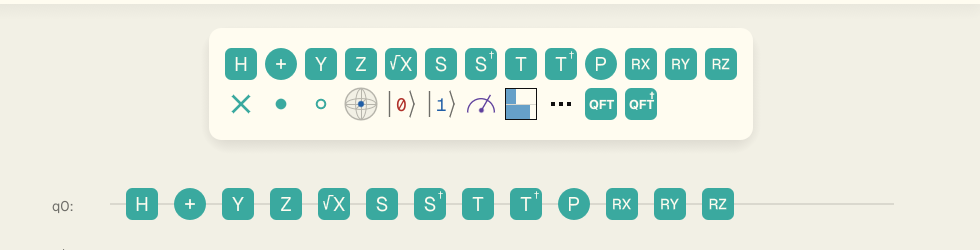
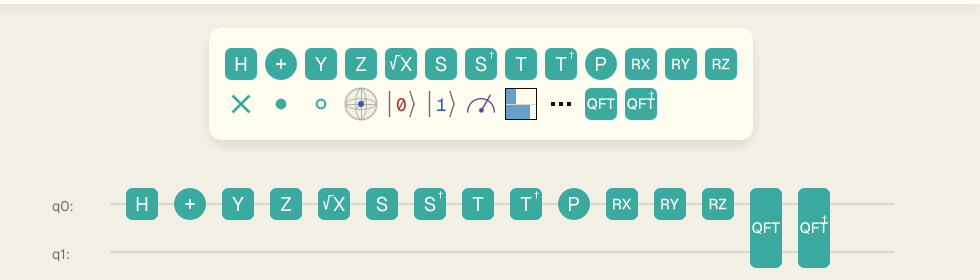
feat(egui-web): render QFT labels with SDF

diff --git a/apps/egui-web/tests/egui-web-palette-visual.spec.ts b/apps/egui-web/tests/egui-web-palette-visual.spec.ts
@@ -49,7 +49,7 @@ test('palette gate hover outline uses Flexoki purple-400', async ({ page }) => {
 
 test('SVG SDF gate labels keep palette and circuit glyph weight aligned', async ({ page }) => {
   await page.setViewportSize({ width: 1001, height: 800 })
-  await page.goto('/#' + encodeURIComponent(JSON.stringify({ cols: [['H'], ['X'], ['Y'], ['Z'], ['X^½'], ['S'], ['S†'], ['T'], ['T†'], ['P'], ['Rx'], ['Ry'], ['Rz']] })))
+  await page.goto('/#' + encodeURIComponent(JSON.stringify({ cols: [['H'], ['X'], ['Y'], ['Z'], ['X^½'], ['S'], ['S†'], ['T'], ['T†'], ['P'], ['Rx'], ['Ry'], ['Rz'], ['QFT2'], ['QFT†2']] })))
 
   await waitForStartupReady(page, { waitForStateVector: true })
   const canvas = page.locator('#egui-canvas')
@@ -63,27 +63,29 @@ test('SVG SDF gate labels keep palette and circuit glyph weight aligned', async 
   const EGUI_PANEL_MARGIN = 8
   const gateSize = UI_CONSTANTS.GATE_SIZE
   const labels = [
-    { name: 'H', index: 0 },
-    { name: 'X', index: 1 },
-    { name: 'Y', index: 2 },
-    { name: 'Z', index: 3 },
-    { name: 'SqrtX', index: 4 },
-    { name: 'S', index: 5 },
-    { name: 'SDagger', index: 6 },
-    { name: 'T', index: 7 },
-    { name: 'TDagger', index: 8 },
-    { name: 'P', index: 9 },
-    { name: 'RX', index: 10 },
-    { name: 'RY', index: 11 },
-    { name: 'RZ', index: 12 },
+    { name: 'H', paletteIndex: 0, circuitIndex: 0, circuitYOffset: 0 },
+    { name: 'X', paletteIndex: 1, circuitIndex: 1, circuitYOffset: 0 },
+    { name: 'Y', paletteIndex: 2, circuitIndex: 2, circuitYOffset: 0 },
+    { name: 'Z', paletteIndex: 3, circuitIndex: 3, circuitYOffset: 0 },
+    { name: 'SqrtX', paletteIndex: 4, circuitIndex: 4, circuitYOffset: 0 },
+    { name: 'S', paletteIndex: 5, circuitIndex: 5, circuitYOffset: 0 },
+    { name: 'SDagger', paletteIndex: 6, circuitIndex: 6, circuitYOffset: 0 },
+    { name: 'T', paletteIndex: 7, circuitIndex: 7, circuitYOffset: 0 },
+    { name: 'TDagger', paletteIndex: 8, circuitIndex: 8, circuitYOffset: 0 },
+    { name: 'P', paletteIndex: 9, circuitIndex: 9, circuitYOffset: 0 },
+    { name: 'RX', paletteIndex: 10, circuitIndex: 10, circuitYOffset: 0 },
+    { name: 'RY', paletteIndex: 11, circuitIndex: 11, circuitYOffset: 0 },
+    { name: 'RZ', paletteIndex: 12, circuitIndex: 12, circuitYOffset: 0 },
+    { name: 'QFT', paletteIndex: 22, circuitIndex: 13, circuitYOffset: UI_CONSTANTS.LINE_GAP / 2 },
+    { name: 'QFTDagger', paletteIndex: 23, circuitIndex: 14, circuitYOffset: UI_CONSTANTS.LINE_GAP / 2 },
   ] as const
-  const centers = Object.fromEntries(labels.flatMap(({ name, index }) => {
-    const paletteCenter = getPaletteGateCenter(box.width, index)
+  const centers = Object.fromEntries(labels.flatMap(({ name, paletteIndex, circuitIndex, circuitYOffset }) => {
+    const paletteCenter = getPaletteGateCenter(box.width, paletteIndex)
     return [
       [`palette${name}`, { x: paletteCenter.x, y: EGUI_PANEL_MARGIN + paletteCenter.y }],
       [`circuit${name}`, {
-        x: EGUI_PANEL_MARGIN + UI_CONSTANTS.LINE_LEFT_OFFSET + UI_CONSTANTS.GATE_SIZE + UI_CONSTANTS.SLOT_SPACING * index,
-        y: EGUI_PANEL_MARGIN + UI_CONSTANTS.LINE_Y,
+        x: EGUI_PANEL_MARGIN + UI_CONSTANTS.LINE_LEFT_OFFSET + UI_CONSTANTS.GATE_SIZE + UI_CONSTANTS.SLOT_SPACING * circuitIndex,
+        y: EGUI_PANEL_MARGIN + UI_CONSTANTS.LINE_Y + circuitYOffset,
       }],
     ]
   }))
@@ -162,6 +164,10 @@ test('SVG SDF gate labels keep palette and circuit glyph weight aligned', async 
     circuitRY: { count: 27, width: 16, height: 10 },
     paletteRZ: { count: 43, width: 16, height: 10 },
     circuitRZ: { count: 43, width: 16, height: 10 },
+    paletteQFT: { count: 36, width: 22, height: 10 },
+    circuitQFT: { count: 36, width: 22, height: 10 },
+    paletteQFTDagger: { count: 43, width: 23, height: 17 },
+    circuitQFTDagger: { count: 43, width: 23, height: 17 },
   })
 })
 

diff --git a/apps/egui-web/src/icons/gate_glyphs.rs b/apps/egui-web/src/icons/gate_glyphs.rs
@@ -47,24 +47,14 @@ pub(super) fn draw_gate_icon(
     color: egui::Color32,
     colors: &Colors,
 ) -> bool {
-    // H / Y / Z / √X / S / S† / T / T† / P / RX / RY / RZ / X
-    // (本体は "+" として描く) は
-    // `assets/icons/{h,y,z,sqrtx,s,sdagger,t,tdagger,p,rx,ry,rz,plus}.svg`
+    // H / Y / Z / √X / S / S† / T / T† / P / RX / RY / RZ / QFT /
+    // QFT† / X (本体は "+" として描く) は
+    // `assets/icons/{h,y,z,sqrtx,s,sdagger,t,tdagger,p,rx,ry,rz,qft,qftdagger,plus}.svg`
     // を 1 ソースに、ビルド時に 256 px PNG から作った SDF テクスチャで
     // 描画する。パレットと回路のサブピクセル位置差で見かけの太さが揺れず、
     // 拡大時も輪郭をシェーダで再構成できるようにする。
-    // 残りの文字系（QFT / QFT†）は引き続き Geist フォントを `painter.text` で描画する。
     if let Some(glyph) = svg_glyph_for(kind) {
         super::svg_icon::draw_glyph(painter, rect, color, glyph);
-        return true;
-    }
-
-    // Remaining typographic gates (QFT / QFT†) are rendered as Geist text
-    // via `painter.text`. QFT† renders the base label centred and the † as
-    // a smaller mark in the top-right corner so the central glyph stays
-    // legible at 32 px.
-    if let Some(label) = base_label_for(kind) {
-        draw_text_label(painter, rect, kind, label, color);
         return true;
     }
 
@@ -169,75 +159,12 @@ fn svg_glyph_for(kind: GateKind) -> Option<super::svg_icon::GateGlyph> {
         GateKind::Rx => GateGlyph::Rx,
         GateKind::Ry => GateGlyph::Ry,
         GateKind::Rz => GateGlyph::Rz,
+        GateKind::QftGate => GateGlyph::Qft,
+        GateKind::QftDaggerGate => GateGlyph::QftDagger,
         // X ゲートの本体は qni の慣例で "+" (CNOT ターゲットと同じ)。
         // 文字 "X" 用の SVG はパレットや将来の単独使用向けに別管理だが、
         // ここでは Plus を返す。
         GateKind::X => GateGlyph::Plus,
         _ => return None,
     })
-}
-
-/// Map a `GateKind` to the remaining text label rendered at the centre of
-/// its body. SVG/SDF-backed glyphs are handled before this function.
-fn base_label_for(kind: GateKind) -> Option<&'static str> {
-    Some(match kind {
-        GateKind::QftGate | GateKind::QftDaggerGate => "QFT",
-        _ => return None,
-    })
-}
-
-fn is_dagger_variant(kind: GateKind) -> bool {
-    matches!(kind, GateKind::QftDaggerGate)
-}
-
-/// Pixel font size for the base label, derived from the gate-body
-/// width. Ratios picked on the gate-label mockup; stays consistent
-/// across the 32 px palette and any future scale. Sizes were
-/// validated visually at 32 px against Geist's metrics.
-fn base_label_font_px(label: &str, body_px: f32) -> f32 {
-    debug_assert!(label.chars().count() > 1);
-    // QFT is a 3-char label that needs a smaller size to fit inside
-    // the body. Bold is wide enough that going higher pushes "QFT"
-    // past the rounded body edge.
-    body_px * 0.40
-}
-
-fn draw_text_label(
-    painter: &egui::Painter,
-    rect: egui::Rect,
-    kind: GateKind,
-    label: &str,
-    color: egui::Color32,
-) {
-    let body_px = rect.width();
-    let family = crate::app::GATE_LABEL_FAMILY.clone();
-    let font = egui::FontId::new(base_label_font_px(label, body_px), family.clone());
-    // Vertical centring quirk: egui aligns text by the font's
-    // ascent/descent, not by the glyph's visual centre. For QFT, the
-    // ascent-to-baseline span already matches the body centre well.
-    painter.text(
-        rect.center(),
-        egui::Align2::CENTER_CENTER,
-        label,
-        font,
-        color,
-    );
-    if is_dagger_variant(kind) {
-        // Dagger sits at the body's top-right so the base letter stays
-        // dead-centre. Size ≈ 0.32× body. Insets are pulled inward
-        // (0.17× / 0.22× instead of 0.13× / 0.18× from the mockup) so
-        // the 10 px-tall glyph clears the cyan body's 6 px corner
-        // radius and no longer clips the rounded top-right edge. The
-        // dagger follows the base label's weight, so QFT† stays on Bold.
-        let dag_font = egui::FontId::new(body_px * 0.32, family.clone());
-        let inset_x = body_px * 0.17;
-        let inset_y = body_px * 0.22;
-        painter.text(
-            egui::pos2(rect.right() - inset_x, rect.top() + inset_y),
-            egui::Align2::CENTER_CENTER,
-            "†",
-            dag_font,
-            color,
-        );
-    }
 }

diff --git a/apps/egui-web/src/app.rs b/apps/egui-web/src/app.rs
@@ -15,22 +15,14 @@ mod state_panel;
 mod state_panel_state;
 mod update_flow;
 
-use eframe::egui;
-use std::collections::VecDeque;
-use std::sync::LazyLock;
-
 use crate::colors::{Colors, Theme, ThemeKind};
 use crate::constants::{LOCAL_MAX_QUBITS, MIN_QUBITS};
 use crate::shared::now_seconds;
 use circuit_history::CircuitRevision;
 use circuit_library::CircuitLibrary;
 use circuit_picker_state::PickerState;
-
-/// Named font family rendering the remaining heavyweight text labels — i.e.
-/// QFT / QFT† at body × 0.40 px. Large gate glyphs, including RX / RY / RZ,
-/// now use the shared SVG/SDF icon path.
-pub(crate) static GATE_LABEL_FAMILY: LazyLock<egui::FontFamily> =
-    LazyLock::new(|| egui::FontFamily::Name("geist".into()));
+use eframe::egui;
+use std::collections::VecDeque;
 
 pub(crate) use circuit_model::{DragState, PlacedGate, SpanResizeDrag};
 pub(crate) use exec_mode::ExecMode;
@@ -131,23 +123,18 @@ impl QniApp {
         // 2. Register Hack only as the final fallback so mathematical
         //    angle brackets `⟨` `⟩` (U+27E8 / U+27E9) used in ket labels
         //    render instead of falling back to tofu if Geist lacks them.
-        // 3. Register Geist Sans weights for gate labels and all
-        //    proportional UI text. Register Geist Mono for monospace UI
-        //    text (state headers, popups, phase labels, FPS HUD, toggle).
-        //    Geist is SIL OFL 1.1 (vercel/geist-font) and embedded via
-        //    `include_bytes!`.
+        // 3. Register Geist Sans for proportional UI text and Geist Medium
+        //    for the aspect-popup label. Gate glyphs use SVG/SDF assets
+        //    generated from Geist, so no runtime gate-label font family is
+        //    needed. Register Geist Mono for monospace UI text (state
+        //    headers, popups, phase labels, FPS HUD, toggle). Geist is SIL
+        //    OFL 1.1 (vercel/geist-font) and embedded via `include_bytes!`.
         let mut fonts = egui::FontDefinitions::empty();
         fonts.font_data.insert(
             "hack_fallback".to_owned(),
             std::sync::Arc::new(egui::FontData::from_static(
                 epaint_default_fonts::HACK_REGULAR,
             )),
-        );
-        fonts.font_data.insert(
-            "geist_bold".to_owned(),
-            std::sync::Arc::new(egui::FontData::from_static(include_bytes!(
-                "../assets/Geist-Bold.ttf"
-            ))),
         );
         fonts.font_data.insert(
             "geist_regular".to_owned(),
@@ -189,9 +176,6 @@ impl QniApp {
                 "hack_fallback".to_owned(),
             ],
         );
-        fonts
-            .families
-            .insert(GATE_LABEL_FAMILY.clone(), vec!["geist_bold".to_owned()]);
         fonts.families.insert(
             egui::FontFamily::Name("geist-medium".into()),
             vec!["geist_medium".to_owned()],

diff --git a/apps/egui-web/src/icons/svg_icon.rs b/apps/egui-web/src/icons/svg_icon.rs
@@ -1,6 +1,6 @@
 //! SVG 共有アセットから焼き付けた PNG を、単色アイコンとして描画する。
 //!
-//! `assets/icons/{h,x,y,z,plus,sqrtx,s,sdagger,t,tdagger,p,rx,ry,rz}.svg` を正にし、
+//! `assets/icons/{h,x,y,z,plus,sqrtx,s,sdagger,t,tdagger,p,rx,ry,rz,qft,qftdagger}.svg` を正にし、
 //! `scripts/extract-gate-svg.py` が同じ場所へ 256×256 px の PNG を生成する。
 //! WebGPU 経路では PNG アルファから生成した SDF（符号付き距離場）を
 //! `sdf_icon` のシェーダで描く。WebGPU が無い経路だけ、同じ PNG アルファの
@@ -31,10 +31,12 @@ pub(super) enum GateGlyph {
     Rx,
     Ry,
     Rz,
+    Qft,
+    QftDagger,
 }
 
 impl GateGlyph {
-    pub(super) const ALL: [Self; 14] = [
+    pub(super) const ALL: [Self; 16] = [
         Self::H,
         Self::X,
         Self::Y,
@@ -49,6 +51,8 @@ impl GateGlyph {
         Self::Rx,
         Self::Ry,
         Self::Rz,
+        Self::Qft,
+        Self::QftDagger,
     ];
 }
 
@@ -72,6 +76,8 @@ fn alpha_rle(glyph: GateGlyph) -> &'static [(u16, u8)] {
         GateGlyph::Rx => RX_ALPHA_RLE,
         GateGlyph::Ry => RY_ALPHA_RLE,
         GateGlyph::Rz => RZ_ALPHA_RLE,
+        GateGlyph::Qft => QFT_ALPHA_RLE,
+        GateGlyph::QftDagger => QFTDAGGER_ALPHA_RLE,
     }
 }
 
@@ -91,6 +97,8 @@ pub(super) fn sdf_rle(glyph: GateGlyph) -> &'static [(u16, u8)] {
         GateGlyph::Rx => RX_SDF_RLE,
         GateGlyph::Ry => RY_SDF_RLE,
         GateGlyph::Rz => RZ_SDF_RLE,
+        GateGlyph::Qft => QFT_SDF_RLE,
+        GateGlyph::QftDagger => QFTDAGGER_SDF_RLE,
     }
 }
 
@@ -110,6 +118,8 @@ fn texture_name(glyph: GateGlyph) -> &'static str {
         GateGlyph::Rx => "gate-icon-rx-png-raster",
         GateGlyph::Ry => "gate-icon-ry-png-raster",
         GateGlyph::Rz => "gate-icon-rz-png-raster",
+        GateGlyph::Qft => "gate-icon-qft-png-raster",
+        GateGlyph::QftDagger => "gate-icon-qftdagger-png-raster",
     }
 }
 

diff --git a/apps/egui-web/src/icons/gate_body.rs b/apps/egui-web/src/icons/gate_body.rs
@@ -49,10 +49,9 @@ fn draw_gate_body_with_fill(
     } else if matches!(kind, GateKind::QftGate | GateKind::QftDaggerGate) {
         // QFT family — same green body as the other unitary gates. The
         // letter rendering is delegated to `draw_gate_icon` along with
-        // every other typographic gate (it picks up `"QFT"` / `"QFT†"`
-        // and renders via Geist Bold). For multi-qubit spans the icon
-        // is anchored to a GATE_SIZE square at the vertical centre so
-        // the lettering stays put even when the body is taller.
+        // every other SVG/SDF-backed typographic gate. For multi-qubit
+        // spans the icon is anchored to a GATE_SIZE square at the vertical
+        // centre so the lettering stays put even when the body is taller.
         painter.rect_filled(gate_rect, egui::CornerRadius::same(6), fill);
         let cx = gate_rect.center().x;
         let cy = gate_rect.center().y;

diff --git a/apps/egui-web/build.rs b/apps/egui-web/build.rs
@@ -2,7 +2,7 @@ use std::fs;
 use std::io::BufReader;
 use std::path::{Path, PathBuf};
 
-const ICONS: [(&str, &str); 14] = [
+const ICONS: [(&str, &str); 16] = [
     ("H", "h.png"),
     ("X", "x.png"),
     ("Y", "y.png"),
@@ -17,6 +17,8 @@ const ICONS: [(&str, &str); 14] = [
     ("RX", "rx.png"),
     ("RY", "ry.png"),
     ("RZ", "rz.png"),
+    ("QFT", "qft.png"),
+    ("QFTDAGGER", "qftdagger.png"),
 ];
 const RASTER_SIZE: u32 = 256;
 const SDF_PX_RANGE: f32 = 32.0;

diff --git a/apps/egui-web/src/icons/sdf_icon.rs b/apps/egui-web/src/icons/sdf_icon.rs
@@ -134,6 +134,8 @@ fn sdf_texture_name(glyph: GateGlyph) -> &'static str {
         GateGlyph::Rx => "gate-icon-rx-sdf",
         GateGlyph::Ry => "gate-icon-ry-sdf",
         GateGlyph::Rz => "gate-icon-rz-sdf",
+        GateGlyph::Qft => "gate-icon-qft-sdf",
+        GateGlyph::QftDagger => "gate-icon-qftdagger-sdf",
     }
 }
 

diff --git a/docs/icon-rendering-decision.md b/docs/icon-rendering-decision.md
@@ -6,7 +6,7 @@
 
 理由は次の通り。
 
-- パレットと回路で同じ SDF テクスチャを使うため、サブピクセル位置差で H / X / Y / Z / √X / S / S† / T / T† / P / RX / RY / RZ の太さが変わらない。
+- パレットと回路で同じ SDF テクスチャを使うため、サブピクセル位置差で H / X / Y / Z / √X / S / S† / T / T† / P / RX / RY / RZ / QFT / QFT† の太さが変わらない。
 - SDF の距離値を WebGPU シェーダ内で輪郭へ戻すため、S の曲線を拡大しても通常の PNG 拡大より階段状の揺れが目立ちにくい。
 - `assets/icons/*.svg` を正にしたまま、TypeScript 側は SVG、Rust 側は同じ SVG から生成した PNG / SDF を使える。
 - 実行時の SVG パーサ、PNG デコーダ、フォント抽出器を wasm に入れないため、`resvg` 案より wasm サイズを抑えられる。
@@ -19,7 +19,7 @@
 | 基準コマンド | `pnpm -C apps/egui-web exec trunk build --release` |
 | 基準 wasm | `apps/egui-web/dist/qni-egui-web_bg.wasm` |
 | 自作 SVG パーサ基準 | 8,108,489 bytes |
-| 画面確認 | `http://127.0.0.1:4180/#%7B%22cols%22%3A%5B%5B%22H%22%5D%2C%5B%22X%22%5D%2C%5B%22Y%22%5D%2C%5B%22Z%22%5D%2C%5B%22X%5E%C2%BD%22%5D%2C%5B%22S%22%5D%2C%5B%22S%E2%80%A0%22%5D%2C%5B%22T%22%5D%2C%5B%22T%E2%80%A0%22%5D%2C%5B%22P%22%5D%2C%5B%22Rx%22%5D%2C%5B%22Ry%22%5D%2C%5B%22Rz%22%5D%5D%7D` |
+| 画面確認 | `http://127.0.0.1:4180/#%7B%22cols%22%3A%5B%5B%22H%22%5D%2C%5B%22X%22%5D%2C%5B%22Y%22%5D%2C%5B%22Z%22%5D%2C%5B%22X%5E%C2%BD%22%5D%2C%5B%22S%22%5D%2C%5B%22S%E2%80%A0%22%5D%2C%5B%22T%22%5D%2C%5B%22T%E2%80%A0%22%5D%2C%5B%22P%22%5D%2C%5B%22Rx%22%5D%2C%5B%22Ry%22%5D%2C%5B%22Rz%22%5D%2C%5B%22QFT2%22%5D%2C%5B%22QFT%E2%80%A02%22%5D%5D%7D` |
 | After スクリーンショット | `h-palette-vs-circuit.png` |
 
 ## 比較表
@@ -28,7 +28,7 @@
 | --- | --- | --- | ---: | --- | --- | --- | --- |
 | A: `ttf-parser` でフォントから直接抽出 | `/tmp/qni-icon-a` で `ttf-parser = 0.25.1` を使い、Geist から輪郭を取り出してメッシュ描画 | H は描画できたが、最終描画はメッシュのまま。フォントヒンティング相当が無く、根本原因のサブピクセル細りを解かない | 8,349,058 bytes（+240,569） | フォント由来なので輪郭取得は容易。ただし塗りつぶし用の三角形分割は残る | Rust はフォント直、TypeScript は SVG になり、共有アセットの正が分かれる | 実行時コードが増える。Geist フォント依存が描画経路に残る | 不採用 |
 | B: `resvg` + 高解像度ラスタ化 | `resvg = 0.47.0`、`default-features = false` で初回描画時に SVG を 128×128 px テクスチャ化 | 通常表示は良いが、拡大時は通常のラスタ画像として階段状になりやすい | 8,989,134 bytes（+880,645） | SVG を足すだけ | 維持できる | 実行時に SVG 解析器とラスタ化器を wasm に含める。サイズ増が大きい | 不採用 |
-| C: SVG → PNG → SDF 焼き付け | `scripts/extract-gate-svg.py` が SVG と PNG を生成。`build.rs` が PNG アルファから SDF を生成し、WebGPU シェーダが輪郭を再構成 | Playwright 実測でパレット / 回路の H, X, Y, Z, √X, S, S†, T, T†, P, RX, RY, RZ が一致（内側の白画素: H 28 px、X 4 px、Y 14 px、Z 27 px、√X 38 px、S 29 px、S† 30 px、T 10 px、T† 11 px、P 32 px、RX 28 px、RY 27 px、RZ 43 px） | 8,780,374 bytes（+671,885） | SVG 生成後に PNG / SDF も生成されるため追加実装ほぼなし | 維持できる。SVG が正、PNG / SDF は派生物 | `rsvg-convert` または `magick` が再生成時だけ必要。通常ビルドは Rust の `png` ビルド時依存だけ | 採用 |
+| C: SVG → PNG → SDF 焼き付け | `scripts/extract-gate-svg.py` が SVG と PNG を生成。`build.rs` が PNG アルファから SDF を生成し、WebGPU シェーダが輪郭を再構成 | Playwright 実測でパレット / 回路の H, X, Y, Z, √X, S, S†, T, T†, P, RX, RY, RZ, QFT, QFT† が一致（内側の白画素: H 28 px、X 4 px、Y 14 px、Z 27 px、√X 38 px、S 29 px、S† 30 px、T 10 px、T† 11 px、P 32 px、RX 28 px、RY 27 px、RZ 43 px、QFT 36 px、QFT† 43 px） | 8,814,654 bytes（+706,165） | SVG 生成後に PNG / SDF も生成されるため追加実装ほぼなし | 維持できる。SVG が正、PNG / SDF は派生物 | `rsvg-convert` または `magick` が再生成時だけ必要。通常ビルドは Rust の `png` ビルド時依存だけ | 採用 |
 
 ## 採用しなかった案
 
@@ -43,7 +43,7 @@
 ## 採用実装
 
 - `scripts/extract-gate-svg.py`
-  - Geist から `h.svg`, `x.svg`, `y.svg`, `z.svg`, `plus.svg`, `sqrtx.svg`, `s.svg`, `sdagger.svg`, `t.svg`, `tdagger.svg`, `p.svg`, `rx.svg`, `ry.svg`, `rz.svg` を生成。
+  - Geist から `h.svg`, `x.svg`, `y.svg`, `z.svg`, `plus.svg`, `sqrtx.svg`, `s.svg`, `sdagger.svg`, `t.svg`, `tdagger.svg`, `p.svg`, `rx.svg`, `ry.svg`, `rz.svg`, `qft.svg`, `qftdagger.svg` を生成。
   - 同じ SVG から `rsvg-convert`（無ければ `magick`）で 256×256 px PNG も生成。
 - `apps/egui-web/build.rs`
   - `assets/icons/*.png` をビルド時に読み、256×256 px RGBA であることと可視画素があることを検査。
@@ -55,7 +55,7 @@
 - `apps/egui-web/src/icons/svg_icon.rs`
   - WebGPU が無い場合のみ RLE アルファを `ColorImage` に展開し、`Shape::image` で描く。
 - `apps/egui-web/src/icons/gate_glyphs.rs`
-  - H / Y / Z / √X / S / S† / T / T† / P / RX / RY / RZ / X（本体は Plus）を新方式へ切り替え。
+  - H / Y / Z / √X / S / S† / T / T† / P / RX / RY / RZ / QFT / QFT† / X（本体は Plus）を新方式へ切り替え。
   - 旧自作 SVG パーサと ear-clip コードは削除。
 
 ## スクリーンショット

diff --git a/docs/egui-web.md b/docs/egui-web.md
@@ -237,12 +237,12 @@ Circuit 全体の panel fill も `background` で塗る。Measurement / `|0⟩` 
 - Measurement は GPU 完結。`MEASURE_REDUCE_SHADER` (workgroup_size=64) で pZero を reduction し、決定論的 PCG を gate id でシードして r をサンプル、`(pZero, r, outcome, sqrt_p_kept)` を `measurement_aux_buffer[slot]` に書く。続けて `MEASURE_COLLAPSE_SHADER` が同じ aux スロットを読み、生き残った基底側の振幅を `1/sqrt_p_kept` で正規化、もう一方を 0 にして state buffer の ping-pong 反対側に書き込む。
 - `read_measurement_outcomes()` (wasm_bindgen) で `[gate_id, outcome, …]` を取得できる。`window.__eguiReadMeasurementOutcomes()` 経由で Playwright から `readMeasurementOutcomes` ヘルパーが返す `MeasurementOutcome[]` を assert する。
 - Bloch ベクトル計算は GPU の `BLOCH_REDUCE_SHADER` (workgroup_size=64 で 1 workgroup の reduction) が処理する。`linearize_ops` が列ごとに `ApplyGate` と `CaptureBloch` を交互に並べ、`gpu.rs::prepare` がそれを順番に dispatch する。出力は `bloch_output_buffer` に shader-side で書き込まれる。
-- 描画は GPU 完結: `BLOCH_OVERLAY_SHADER` (vertex+fragment) が `bloch_output_buffer` を直接 sample してアロー線・先端ドットを描く (`BlochOverlayCallback`)。`MEASUREMENT_DIGIT_SHADER` も同様に `measurement_aux_buffer.z` (outcome) を sample し、起動時に rasterize した Geist Bold 700 の `0` / `1` atlas から outcome 桁を描画する。本番経路で GPU → CPU リードバックは発生しない。
+- 描画は GPU 完結: `BLOCH_OVERLAY_SHADER` (vertex+fragment) が `bloch_output_buffer` を直接 sample してアロー線・先端ドットを描く (`BlochOverlayCallback`)。`MEASUREMENT_DIGIT_SHADER` も同様に `measurement_aux_buffer.z` (outcome) を sample し、起動時に rasterize した Geist Mono Regular の `0` / `1` atlas から outcome 桁を描画する。本番経路で GPU → CPU リードバックは発生しない。
 - `read_bloch_vectors()` / `read_measurement_outcomes()` (wasm_bindgen) は **テスト専用の async on-demand readback**: 呼ばれた時に staging buffer + map_async で `[gateId, x, y, z, …]` / `[gateId, outcome, …]` を返す。本番のレンダーには影響しない。Playwright は `readBlochVectors` / `readMeasurementOutcomes` ヘルパー経由で await して使う。
 - Spacer ゲートは qni `packages/elements/icon/spacer-gate.svg` を踏襲した装飾専用 NOP。viewbox 上の (9,21)–(15,27)、(21,21)–(27,27)、(33,21)–(39,27) に塗りつぶし矩形 3 つで `…` を描く。色は `text-neutral-900` (#171717)。`simulation_plan::linearize_ops` では Swap と同じく状態変更 op を出さない。
 - パレットは 2 段。1 段目は単量子ビットのユニタリ (H, X, Y, Z, √X, S, S†, T, T†, P, Rx, Ry, Rz)、2 段目は特殊ゲート (SWAP, •, ◦, |0⟩, |1⟩)。両段とも左寄せで揃える（qni の `flex flex-row` レイアウトに合わせる）。
 - パレットの寸法は qni `apps/www/app/views/application/_palette_md.html.erb` に合わせる: ゲート間 8px (`space-x-2`)、行間 8px (`space-y-2`)、横パディング 16px (`px-4`)、縦パディング 20px (`py-5`)、角丸 12px (`rounded-xl`)。
-- |0⟩ の桁は `semantic_off`、|1⟩ の桁は `semantic_on` で描画する。Flexoki Light では red-600 / blue-600。桁のフォントは通常ゲートラベルと同じ Geist Bold 700。
+- |0⟩ の桁は `semantic_off`、|1⟩ の桁は `semantic_on` で描画する。Flexoki Light では red-600 / blue-600。桁のフォントは Geist Mono Regular で、スラッシュ付きの `0` により `O` と見間違えにくくする。
 - CNOT is expressed by placing a control gate (C) and an X gate in the same column.
 - Control and anti-control gates apply to every non-control gate in the same column (same step).
 - Chance / QFT / QFT† は span 分だけ縦に伸び、回路上の長いゲートをドラッグ中も同じ span の preview を描く。
